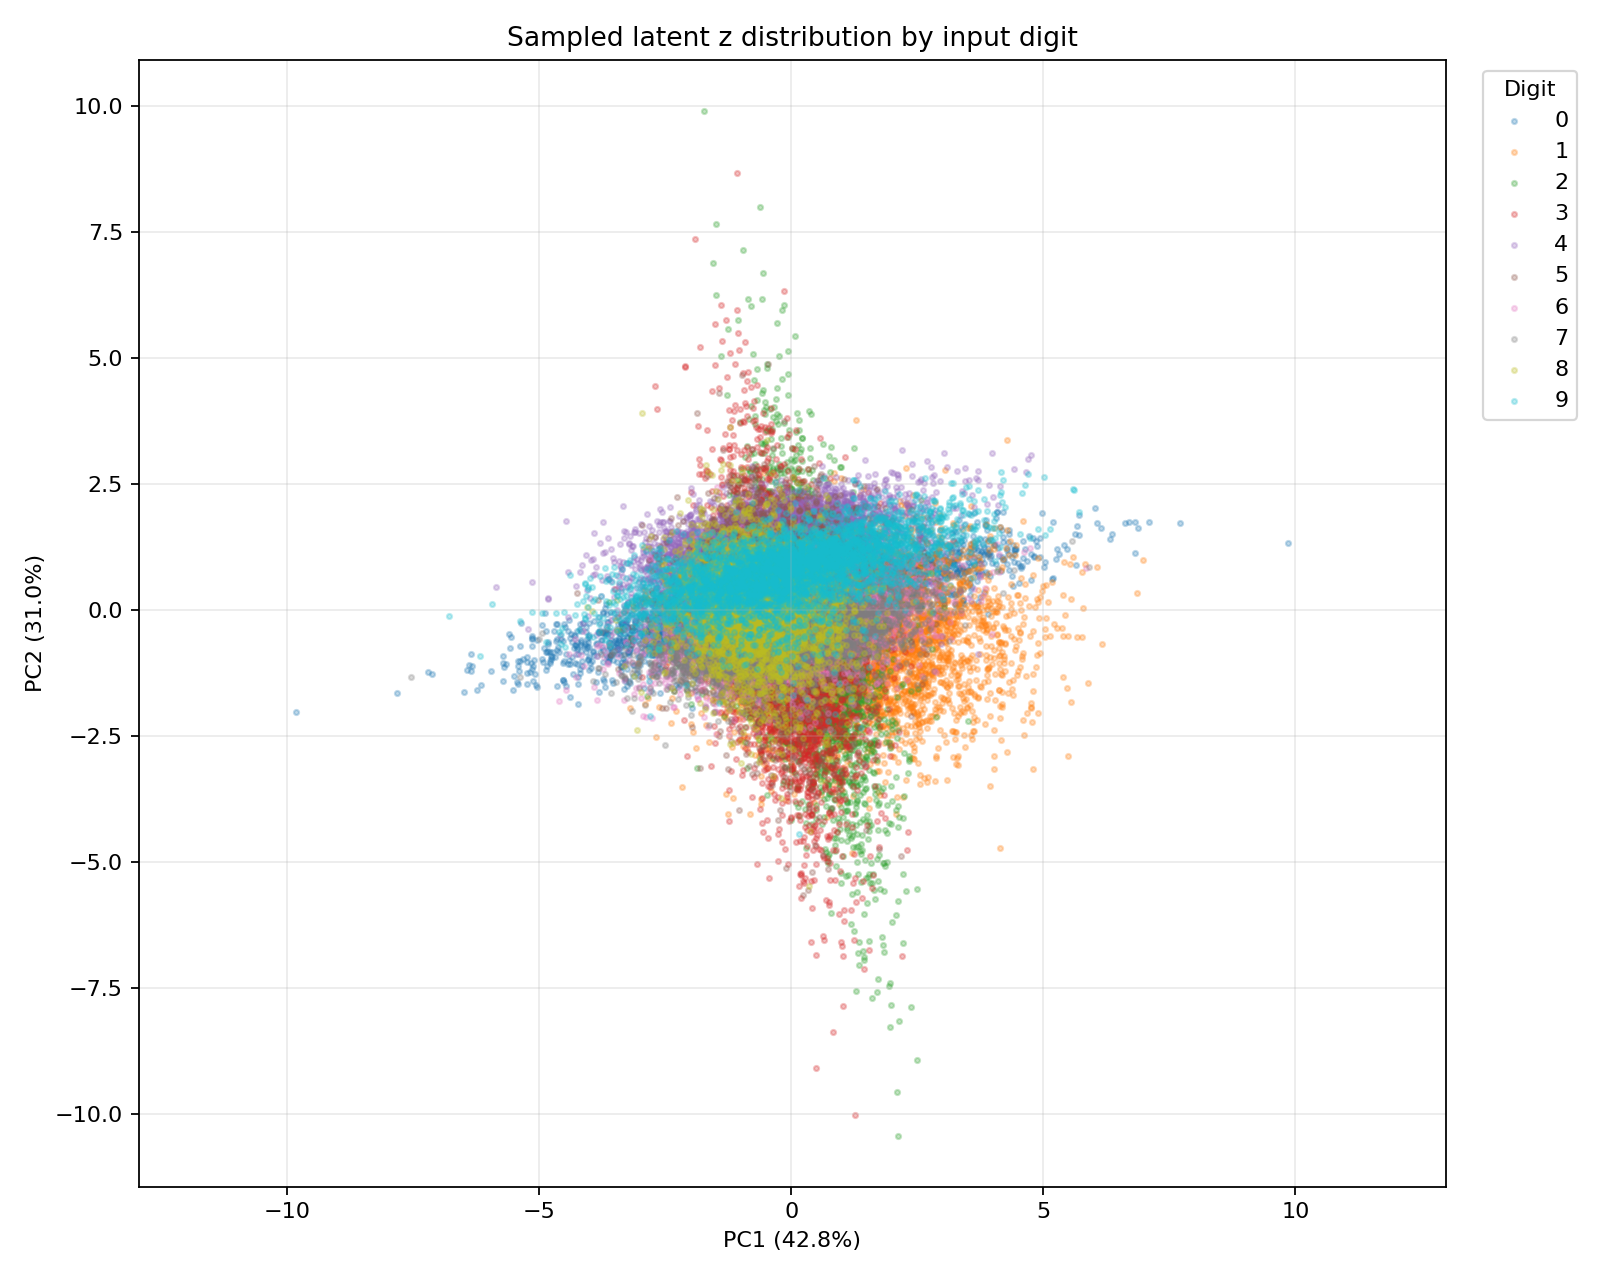
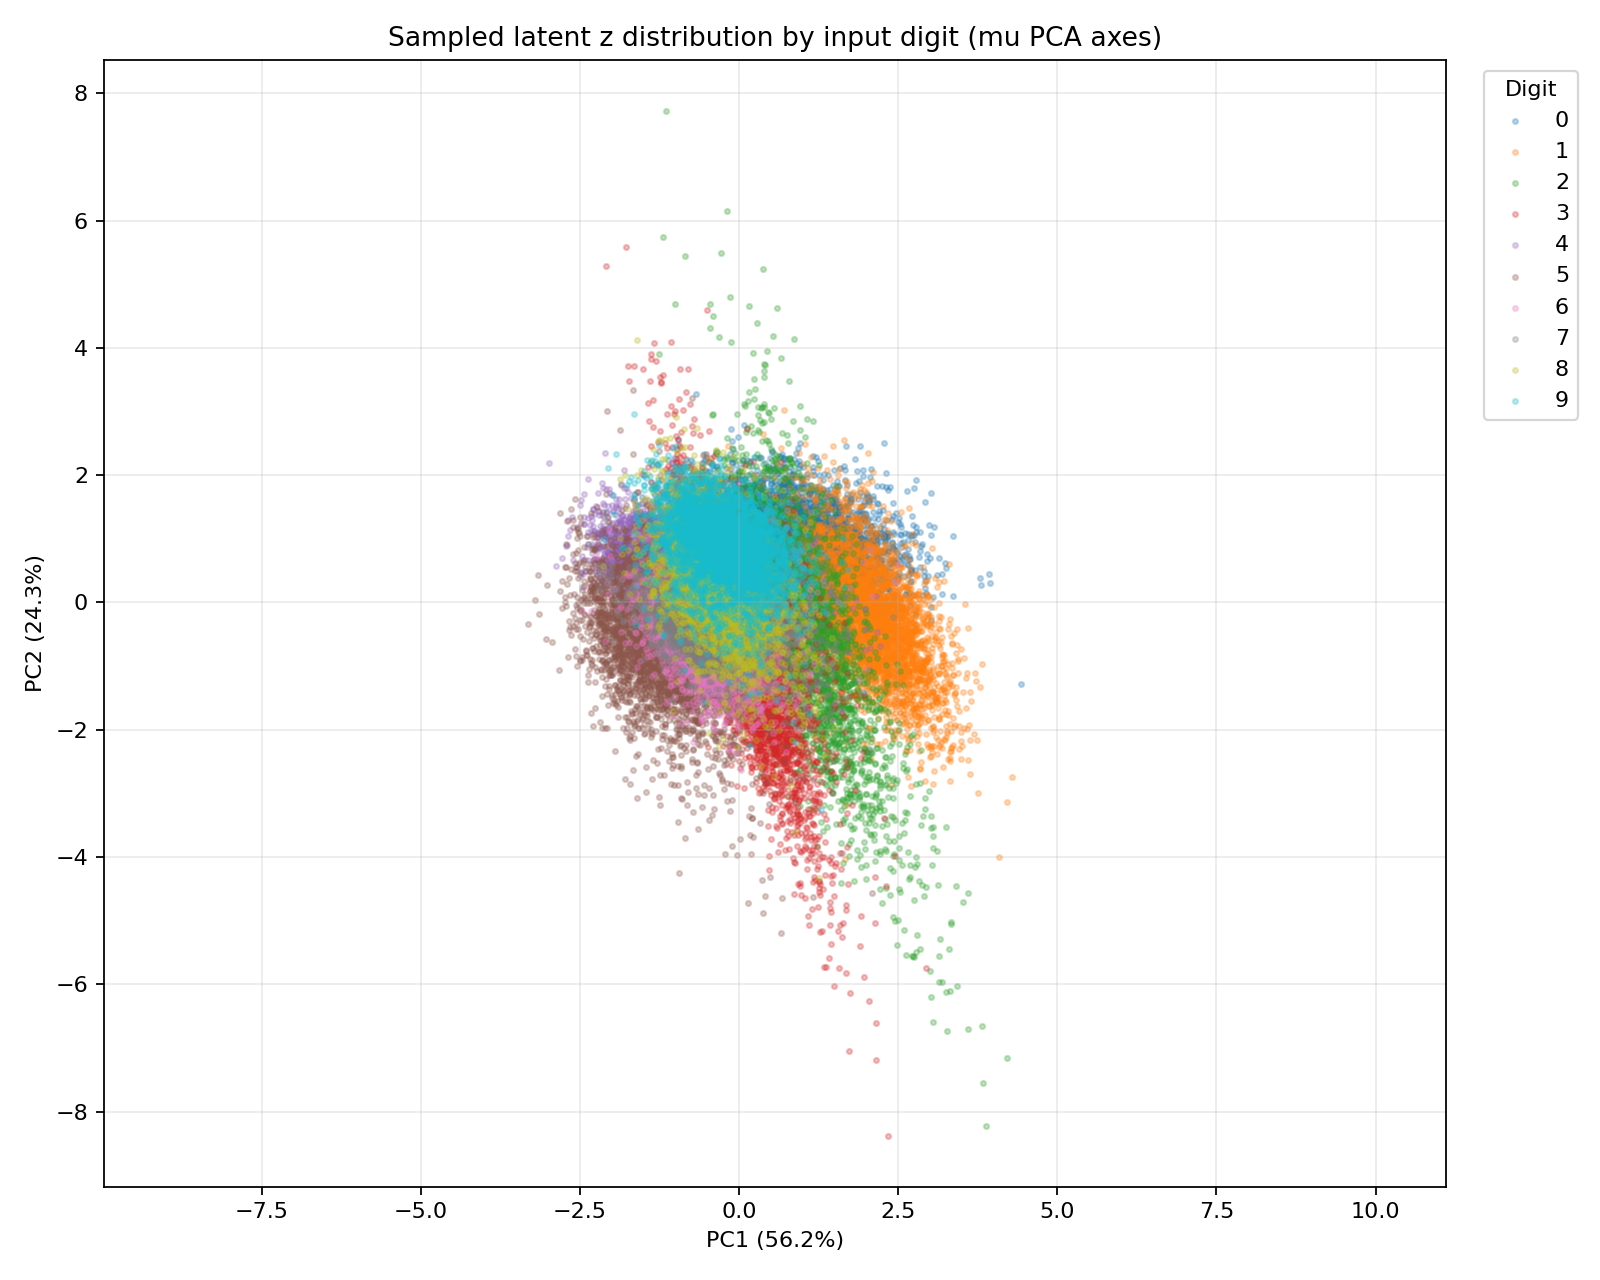
Use mu PCA axes for latent sample plot

diff --git a/phoneme2img/sekitori_mnist-master/analyze_checkpoint.py b/phoneme2img/sekitori_mnist-master/analyze_checkpoint.py
@@ -58,8 +58,7 @@ def _fit_pca(points, max_points=10000):
     return pca
 
 
-def _plot_latent_mu(mu_np, labels_np, out_path):
-    pca = _fit_pca(mu_np)
+def _plot_latent_mu(mu_np, labels_np, out_path, pca):
     xy = pca.transform(mu_np)
 
     plt.figure(figsize=(10, 8))
@@ -84,10 +83,9 @@ def _plot_latent_mu(mu_np, labels_np, out_path):
     plt.close()
 
 
-def _plot_latent_samples(z_np, labels_np, out_path):
+def _plot_latent_samples(z_np, labels_np, out_path, pca):
     flat_z = z_np.reshape(-1, z_np.shape[-1])
     repeated_labels = np.repeat(labels_np, z_np.shape[1])
-    pca = _fit_pca(flat_z)
     xy = pca.transform(flat_z)
 
     plt.figure(figsize=(10, 8))
@@ -102,7 +100,7 @@ def _plot_latent_samples(z_np, labels_np, out_path):
             label=str(digit),
         )
     plt.gca().set_aspect("equal", adjustable="datalim")
-    plt.title("Sampled latent z distribution by input digit")
+    plt.title("Sampled latent z distribution by input digit (mu PCA axes)")
     plt.xlabel(f"PC1 ({pca.explained_variance_ratio_[0] * 100:.1f}%)")
     plt.ylabel(f"PC2 ({pca.explained_variance_ratio_[1] * 100:.1f}%)")
     plt.grid(True, alpha=0.25)
@@ -178,8 +176,14 @@ def analyze(checkpoint_path, out_dir, per_digit, z_samples, grid_samples):
     decoded_np = decoded.cpu().numpy()
 
     epoch = ckpt.get("epoch", "unknown")
-    _plot_latent_mu(mu_np, labels_np, os.path.join(out_dir, f"epoch_{epoch}_latent_mu_pca.png"))
-    _plot_latent_samples(z_np, labels_np, os.path.join(out_dir, f"epoch_{epoch}_latent_z_samples_pca.png"))
+    latent_pca = _fit_pca(mu_np)
+    _plot_latent_mu(mu_np, labels_np, os.path.join(out_dir, f"epoch_{epoch}_latent_mu_pca.png"), latent_pca)
+    _plot_latent_samples(
+        z_np,
+        labels_np,
+        os.path.join(out_dir, f"epoch_{epoch}_latent_z_samples_pca.png"),
+        latent_pca,
+    )
 
     src_images = []
     grid_generated = []

diff --git a/phoneme2img/sekitori_mnist-master/EXPERIMENT_REPORT.md b/phoneme2img/sekitori_mnist-master/EXPERIMENT_REPORT.md
@@ -146,6 +146,8 @@ analysis/random_teacher/epoch_0200/
 
 観察結果:
 
+- PCA軸はencoder `mu` の散布図でfitした軸と同一です。
+- したがって、この図では `mu` の各点の周囲に、実際にサンプルされた `z` がどの程度広がるかを同じ座標系で比較できます。
 - `mu` に比べて、`z` サンプル分布は大きく重なっています。
 - これはencoderが各入力に対して広い分散を出していることを示します。
 - 複数正解をカバーするという意味では望ましい方向ですが、重なりが大きすぎるとdecoder出力がぼやけます。
